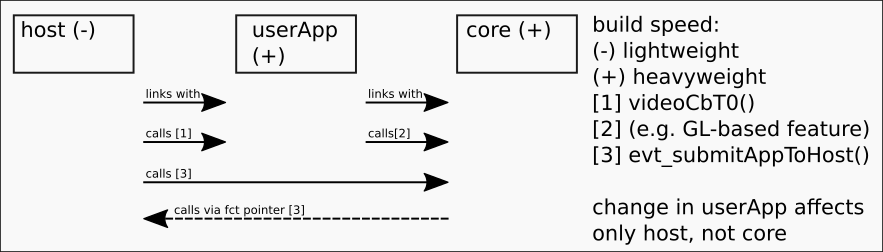
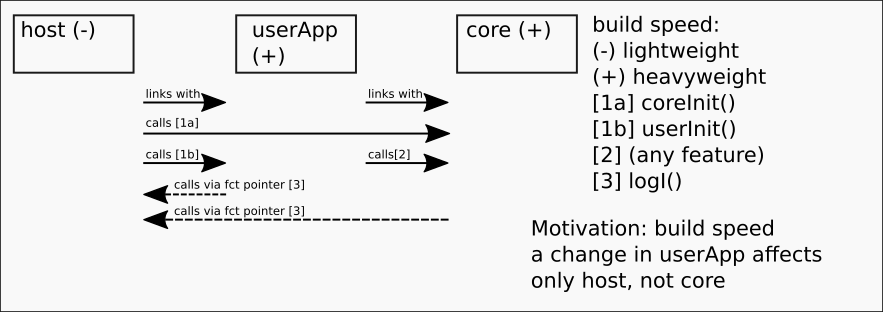
doc

diff --git a/README.md b/README.md
@@ -2,16 +2,27 @@
 MN's OS-independent Open-GL application host
 
 A smallest-common-denominator framework for an OS-independent openGL app. Runs on
-- Windows via mingw, using GLEW. Run 'make main.exe'
-- Linux (tested: Raspberry Pi). Run 'make main'
+- Windows via mingw, using GLEW.
+- Linux (tested: Raspberry Pi).
 - Android. Use Android Studio (tested: 2022.1.1)
 
-Folder structure:
-- toplevel: MNOGLA.h defines interface
-- mingw: Windows-/linux host
-- Android: Android host
+### Windows (minGW) build
+```pacman -S --needed base-devel mingw-w64-x86_64-toolchain
+pacman -S mingw-w64-x86_64-glm
+pacman -S mingw-w64-x86_64-glfw
+pacman -S mingw-w64-x86_64-glew
+cd host_mingw64linux
+cmake -S . -B build
+cmake --build build
+```
 
-"Host" meaning OS-dependent code to convert e.g. mouse events to messages.
+### Android Studio build
+SDK manager, "SDK Platforms": Install required SDK (see build.gradle)
+SDK manager, "SDK Tools": Install required NDK (see build.gradle)
+Click on "run app" green arrow
+
+### Linux build
+to be updated (use CMakeLists.txt, replace glew32, glfw3, opengl32 library dependencies with glfw3 and GL). 
 
 On Android, see https://github.com/android/ndk-samples/blob/main/gles3jni/app/src/main/cpp/CMakeLists.txt for possible improvements e.g. support lower versions (code is based on older gles2ini sample)
 
